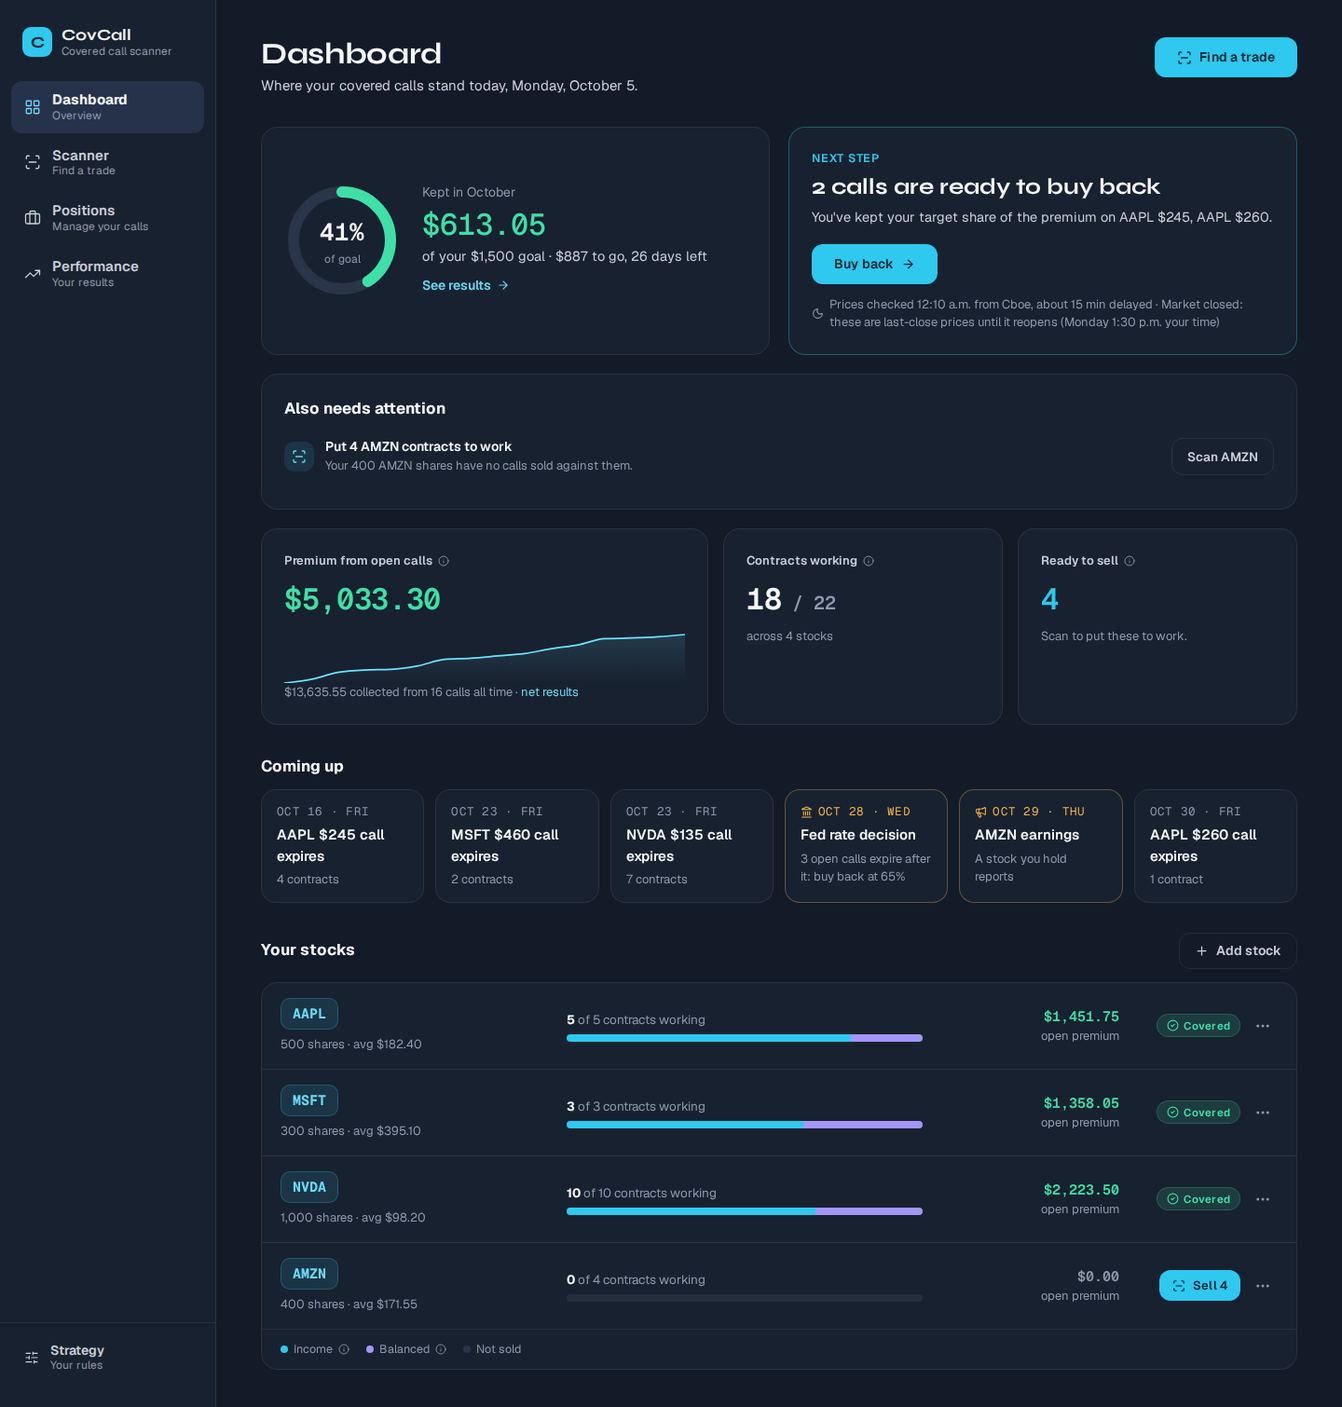
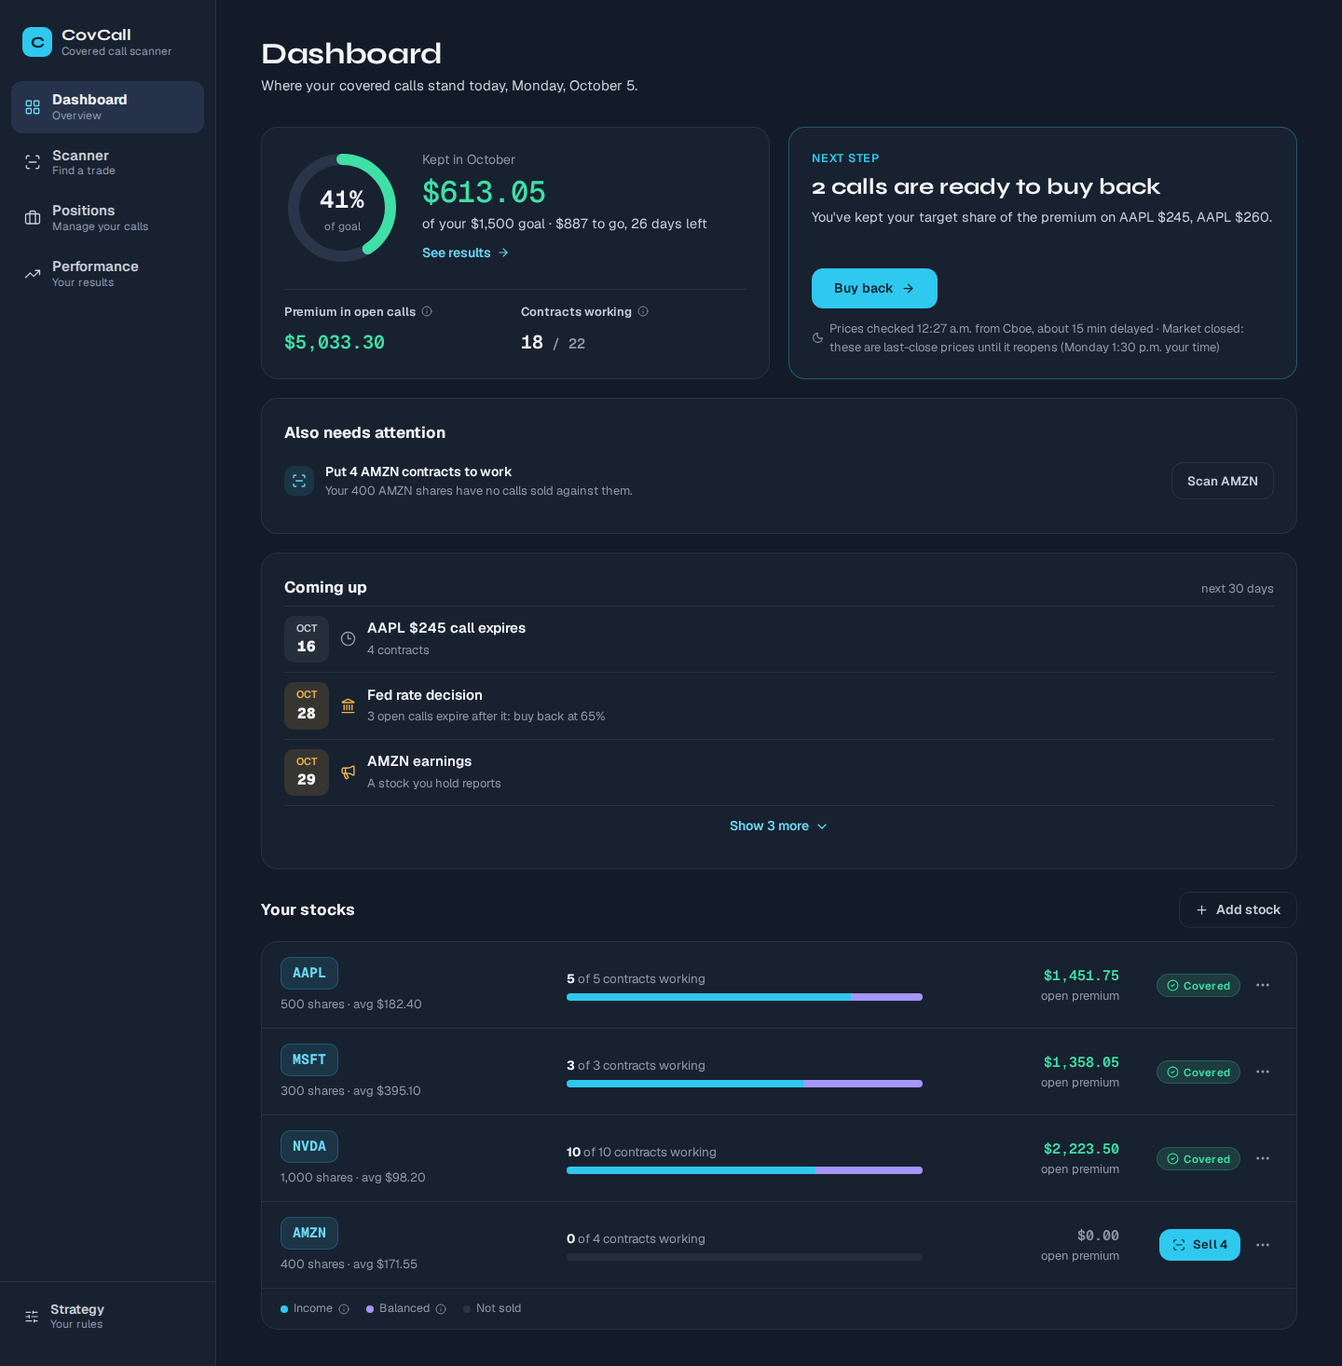
Simpler Dashboard: numbers in the goal card, Coming up as a short list
- Premium in open calls and contracts working move into the goal card; the
  separate number tiles and the all-time chart are gone (Performance has
  the monthly chart).
- Coming up is a list: three events shown, earnings and Fed decisions
  first (expiries are also on Positions), in date order, with "Show N more"
  for the rest of the month.
- No goal and nothing sold yet: the Next step comes first. The header's
  "Find a trade" is gone; the Next step carries the main action.
- Stock rows keep the ⋯ menu (View positions, Scan for a call, Edit shares
  or cost), the Covered badge and Sell N.
- Loading placeholder matches the new layout. README and screenshots
  updated.

Claude-Session: https://claude.ai/code/session_01BL7NnaB4jY3csjvbLdMFq2

diff --git a/web/src/pages/Dashboard.jsx b/web/src/pages/Dashboard.jsx
@@ -4,8 +4,7 @@ import { Link, useNavigate, useSearchParams } from 'react-router-dom'
 import { getPortfolio, getAllPositions, getAssignmentReview, getManagement, getPerformance, getStrategy, getUpcoming } from '../api/client'
 import { useTicker } from '../context/TickerContext'
 import { useToast } from '../context/ToastContext'
-import { ScanLine, ArrowRight, ArrowUpRight, CheckCircle2, Pencil, Plus, AlertTriangle, Layers, CalendarClock, BadgeDollarSign, Landmark, Megaphone } from 'lucide-react'
-import { AreaChart, Area, ResponsiveContainer, XAxis, YAxis, Tooltip } from 'recharts'
+import { ScanLine, ArrowRight, ArrowUpRight, CheckCircle2, Pencil, Plus, AlertTriangle, Layers, CalendarClock, BadgeDollarSign, Landmark, Megaphone, Clock3, ChevronDown } from 'lucide-react'
 import PageHeader from '../components/PageHeader'
 import InfoTip from '../components/InfoTip'
 import ActionMenu from '../components/ActionMenu'
@@ -55,16 +54,33 @@ function Attention({ icon: Icon, tone, children, action }) {
   )
 }
 
+// Premium in open calls and contracts working, under the goal
+function OpenNumbers({ openPremium, working, totalContracts }) {
+  return (
+    <div className="goal-numbers">
+      <div>
+        <div className="stat-label">Premium in open calls <InfoTip text="Premium from calls that are still open, after the fees you paid to sell them. Same as &quot;Still open&quot; on the Performance page." size={12} /></div>
+        <div className="mono goal-number" style={{ color: 'var(--green)' }}>{money(openPremium)}</div>
+      </div>
+      <div>
+        <div className="stat-label">Contracts working <InfoTip text="Contracts with an open call sold against them. Each contract covers 100 shares." size={12} /></div>
+        <div className="mono goal-number">{working}<span className="muted" style={{ fontSize: 15 }}> / {totalContracts}</span></div>
+      </div>
+    </div>
+  )
+}
+
 // Monthly goal as a ring: how much you've kept this month, and how much is left to go
-function GoalCard({ goal }) {
+function GoalCard({ goal, numbers }) {
   if (!goal) {
     return (
       <section className="card goal-card" aria-label="Monthly goal">
         <div className="goal-text">
           <div className="section-title">Set a monthly goal</div>
-          <div className="hint" style={{ fontSize: 14 }}>A goal shows your progress here and paces the Scanner's income picks.</div>
+          <div className="hint" style={{ fontSize: 14 }}>Optional. Shows your progress here and paces the Scanner's picks.</div>
           <Link to="/strategy" className="link-btn">Set a goal <ArrowRight size={14} /></Link>
         </div>
+        {numbers}
       </section>
     )
   }
@@ -94,6 +110,7 @@ function GoalCard({ goal }) {
         </div>
         <Link to="/performance" className="link-btn">See results <ArrowRight size={14} /></Link>
       </div>
+      {numbers}
     </section>
   )
 }
@@ -124,37 +141,57 @@ function NextStep({ item, footer }) {
   )
 }
 
-// "Coming up": expiries, Fed decisions and earnings over the next 30 days
-const shortDay = iso => {
+// "Coming up": expiries, Fed decisions and earnings over the next 30 days.
+// Three are shown, earnings and Fed decisions first (expiries are also on
+// Positions), in date order; the rest open with "Show more".
+const SHOWN = 3
+const dayParts = iso => {
   const [y, m, d] = iso.split('-').map(Number)
   const dt = new Date(y, m - 1, d)
-  return `${dt.toLocaleDateString('en-US', { month: 'short', day: 'numeric' })} · ${dt.toLocaleDateString('en-US', { weekday: 'short' })}`.toUpperCase()
+  return { month: dt.toLocaleDateString('en-US', { month: 'short' }).toUpperCase(), day: d, weekday: dt.toLocaleDateString('en-US', { weekday: 'long' }) }
 }
 
-function ComingUp({ items, moreExpiries, note, warning }) {
+function ComingUp({ items, note, warning }) {
+  const [open, setOpen] = useState(false)
   if (!items.length && !warning) return null
+  const picked = new Set([...items.filter(i => i.event), ...items.filter(i => !i.event)].slice(0, SHOWN).map(i => i.key))
+  const shown = open ? items : items.filter(i => picked.has(i.key))
+  const more = items.length - SHOWN
   return (
-    <section aria-label="Coming up" style={{ marginBottom: 32 }}>
-      <div className="section-title" style={{ marginBottom: 12 }}>Coming up</div>
+    <section className="card coming-up" aria-label="Coming up" style={{ marginBottom: 24 }}>
+      <div style={{ display: 'flex', justifyContent: 'space-between', alignItems: 'baseline', gap: 12, marginBottom: 6 }}>
+        <div className="section-title" style={{ margin: 0 }}>Coming up</div>
+        <span className="hint">next 30 days</span>
+      </div>
       {warning && (
-        <div role="status" style={{ display: 'flex', gap: 8, alignItems: 'flex-start', color: 'var(--amber)', fontSize: 13.5, marginBottom: items.length ? 12 : 0 }}>
+        <div role="status" style={{ display: 'flex', gap: 8, alignItems: 'flex-start', color: 'var(--amber)', fontSize: 13.5, margin: '6px 0 8px' }}>
           <AlertTriangle size={15} strokeWidth={2} aria-hidden="true" style={{ flexShrink: 0, marginTop: 2 }} />
           <span>{warning}</span>
         </div>
       )}
-      {items.length > 0 && <div className="coming-grid">
-        {items.map(it => (
-          <div key={it.key} className={`coming-card${it.event ? ' event' : ''}`}>
-            <div className="coming-date mono">{it.event && <it.icon size={13} strokeWidth={2} aria-hidden="true" />}{shortDay(it.date)}</div>
-            <div style={{ fontWeight: 600, fontSize: 15 }}>{it.title}</div>
-            <div className="hint">{it.sub}</div>
-          </div>
-        ))}
-      </div>}
-      {moreExpiries > 0 && (
-        <div className="hint" style={{ marginTop: 8 }}>
-          {moreExpiries} more {moreExpiries === 1 ? 'expiry' : 'expiries'} in the next 30 days on <Link to="/positions">Positions</Link>.
-        </div>
+      {items.length > 0 && (
+        <ul className="coming-list" id="coming-up-list">
+          {shown.map(it => {
+            const d = dayParts(it.date)
+            const Icon = it.icon
+            return (
+              <li key={it.key} className={`coming-row${it.event ? ' event' : ''}`}>
+                <span className="coming-chip" aria-label={`${d.weekday}, ${d.month} ${d.day}`}><span>{d.month}</span><strong className="mono">{d.day}</strong></span>
+                <Icon size={17} strokeWidth={2} aria-hidden="true" className="coming-icon" />
+                <span style={{ minWidth: 0 }}>
+                  <span style={{ display: 'block', fontWeight: 600, fontSize: 15 }}>{it.title}</span>
+                  <span className="hint">{it.sub}</span>
+                </span>
+              </li>
+            )
+          })}
+        </ul>
+      )}
+      {more > 0 && (
+        <button type="button" className="coming-more" onClick={() => setOpen(o => !o)} aria-expanded={open} aria-controls="coming-up-list">
+          {open ? 'Show less' : `Show ${more} more`}
+          <ChevronDown size={16} strokeWidth={2} style={{ transform: open ? 'rotate(180deg)' : 'none', transition: 'transform 0.2s' }} />
+        </button>
       )}
       {note && <div className="hint" style={{ marginTop: 8 }}>{note}</div>}
     </section>
@@ -208,7 +245,6 @@ export default function Dashboard() {
   const [editing,      setEditing]      = useState(() => (params.get('add') === '1' ? 'new' : null))
   const [portfolio,    setPortfolio]    = useState([])
   const [positions,    setPositions]    = useState([])
-  const [allPositions, setAllPositions] = useState([])
   const [loading,      setLoading]      = useState(true)
   const [loadFailed,   setLoadFailed]   = useState(false)
   const [reloadKey,    setReloadKey]    = useState(0)
@@ -227,7 +263,6 @@ export default function Dashboard() {
         if (cancelled) return
         setPortfolio(portRes.data)
         setPositions(posRes.data.filter(p => p.status === 'OPEN'))
-        setAllPositions(posRes.data)
         setLoadFailed(false)
         applyPortfolio(portRes.data)
       })
@@ -257,17 +292,6 @@ export default function Dashboard() {
   const openPremium    = positions.reduce((s, p) => s + p.premium_total - (p.open_fees || 0), 0)
   const totalContracts = portfolio.reduce((s, t) => s + t.total_contracts, 0)
   const working        = portfolio.reduce((s, t) => s + t.open_total, 0)
-  const available      = portfolio.reduce((s, t) => s + t.available, 0)
-
-  // Running total of premium from every call you've sold, oldest first.
-  const chartData = useMemo(() => {
-    const sorted = [...allPositions].sort((a, b) => new Date(a.opened_at) - new Date(b.opened_at))
-    return sorted.reduce((points, p) => {
-      const prev = points.length ? points[points.length - 1].total : 0
-      points.push({ date: p.opened_at, total: Number((prev + p.premium_total - (p.open_fees || 0)).toFixed(2)) })
-      return points
-    }, [])
-  }, [allPositions])
 
   const go = (ticker, path) => { selectTicker(ticker); navigate(path) }
 
@@ -329,7 +353,7 @@ export default function Dashboard() {
       const k = `${p.expiry}|${p.ticker}|${p.strike}`
       byCall.set(k, { ...(byCall.get(k) || { date: p.expiry, ticker: p.ticker, strike: p.strike, contracts: 0 }), contracts: (byCall.get(k)?.contracts || 0) + p.contracts })
     })
-    byCall.forEach((c, k) => out.push({ key: `exp-${k}`, date: c.date, title: `${c.ticker} ${money(c.strike, 0)} call expires`, sub: plural(c.contracts, 'contract') }))
+    byCall.forEach((c, k) => out.push({ key: `exp-${k}`, date: c.date, icon: Clock3, title: `${c.ticker} ${money(c.strike, 0)} call expires`, sub: plural(c.contracts, 'contract') }))
     ;(upcoming?.fed || []).forEach(day => {
       const after = positions.filter(p => p.expiry >= day).length
       out.push({ key: `fed-${day}`, date: day, event: true, icon: Landmark, title: 'Fed rate decision',
@@ -340,12 +364,7 @@ export default function Dashboard() {
       out.push({ key: `earn-${e.ticker}-${e.date}`, date: e.date, event: true, icon: Megaphone, title: `${e.ticker} earnings`,
         sub: after ? `Before ${plural(after, `open ${e.ticker} call`)} ${after === 1 ? 'expires' : 'expire'}` : 'A stock you hold reports' })
     })
-    // Up to 8 cards: earnings and Fed decisions always make it, expiries fill the rest (soonest first)
-    const byDate = (a, b) => a.date.localeCompare(b.date) || a.key.localeCompare(b.key)
-    const events = out.filter(i => i.event)
-    const expiries = out.filter(i => !i.event).sort(byDate)
-    const shown = expiries.slice(0, Math.max(0, 8 - events.length))
-    return { items: [...events, ...shown].sort(byDate), moreExpiries: expiries.length - shown.length }
+    return out.sort((a, b) => a.date.localeCompare(b.date) || a.key.localeCompare(b.key))
   }, [positions, upcoming, eventPct])
   const unknownEarnings = upcoming?.earnings_unknown || []
   const earningsWarning = unknownEarnings.length
@@ -380,8 +399,6 @@ export default function Dashboard() {
       <PageHeader
         title="Dashboard"
         subtitle={`Where your covered calls stand today, ${new Date().toLocaleDateString('en-CA', { weekday: 'long', month: 'long', day: 'numeric' })}.`}
-        actions={!loading && !loadFailed && portfolio.length > 0 &&
-          <button className="btn-primary" onClick={() => navigate('/scanner')}><ScanLine size={16} strokeWidth={2} /> Find a trade</button>}
       />
 
       {loading ? (
@@ -393,12 +410,17 @@ export default function Dashboard() {
       ) : (
         <>
           <div className="hero-grid">
-            <GoalCard goal={goal} />
-            <NextStep item={nextStep} footer={
-              readyIds === null && positions.length > 0
-                ? <span className="hint" style={{ display: 'inline-flex', alignItems: 'center', gap: 8 }}><span className="spinner" style={{ width: 12, height: 12 }} /> Checking which calls are ready to buy back…</span>
-                : readyIds && positions.length > 0 ? <PriceStamp meta={priceMeta} /> : null
-            } />
+            {(() => {
+              const goalCard = <GoalCard key="goal" goal={goal}
+                numbers={positions.length > 0 && <OpenNumbers openPremium={openPremium} working={working} totalContracts={totalContracts} />} />
+              const next = <NextStep key="next" item={nextStep} footer={
+                readyIds === null && positions.length > 0
+                  ? <span className="hint" style={{ display: 'inline-flex', alignItems: 'center', gap: 8 }}><span className="spinner" style={{ width: 12, height: 12 }} /> Checking which calls are ready to buy back…</span>
+                  : readyIds && positions.length > 0 ? <PriceStamp meta={priceMeta} /> : null
+              } />
+              // Just starting out (no goal, nothing sold): what to do comes first
+              return goal || positions.length > 0 ? [goalCard, next] : [next, goalCard]
+            })()}
           </div>
 
           {rest.length > 0 && (
@@ -414,57 +436,7 @@ export default function Dashboard() {
             </div>
           )}
 
-          {/* Three numbers that matter */}
-          <div className="grid-stats" style={{ marginBottom: 32 }}>
-            <div className="card" style={{ display: 'flex', flexDirection: 'column' }}>
-              <div className="stat-label">Premium from open calls <InfoTip text="Premium from calls that are still open, after the fees you paid to sell them. Same as &quot;Still open&quot; on the Performance page." size={12} /></div>
-              <div className="stat-num" style={{ fontSize: 32, color: 'var(--green)' }}>{money(openPremium)}</div>
-              {chartData.length >= 2 ? (
-                <>
-                  <div style={{ height: 56, marginTop: 10, marginLeft: -8, marginRight: -8 }}>
-                    <ResponsiveContainer width="100%" height="100%" initialDimension={{ width: 300, height: 56 }}>
-                      <AreaChart data={chartData} margin={{ top: 4, right: 8, bottom: 0, left: 8 }}>
-                        <defs>
-                          <linearGradient id="premiumFill" x1="0" y1="0" x2="0" y2="1">
-                            <stop offset="0%" stopColor="#6ae4ff" stopOpacity={0.22} />
-                            <stop offset="100%" stopColor="#6ae4ff" stopOpacity={0} />
-                          </linearGradient>
-                        </defs>
-                        <XAxis dataKey="date" hide />
-                        <YAxis hide domain={['dataMin', 'dataMax']} />
-                        <Tooltip
-                          contentStyle={{ background: '#202a3e', border: '1px solid rgba(255,255,255,0.1)', borderRadius: 10, fontSize: 12 }}
-                          labelStyle={{ color: '#cdd0d6' }}
-                          itemStyle={{ color: '#ffffff' }}
-                          labelFormatter={fmtDate}
-                          formatter={(v) => [money(v), 'Total collected']}
-                        />
-                        <Area type="monotone" dataKey="total" stroke="#6ae4ff" strokeWidth={1.75} fill="url(#premiumFill)" />
-                      </AreaChart>
-                    </ResponsiveContainer>
-                  </div>
-                  <div className="hint">
-                    {money(chartData[chartData.length - 1].total)} collected from {plural(chartData.length, 'call')} all time ·{' '}
-                    <Link to="/performance" style={{ color: 'var(--accent-light)' }}>net results</Link>
-                  </div>
-                </>
-              ) : (
-                <div className="hint" style={{ marginTop: 'auto', paddingTop: 12 }}>A trend line appears once you've sold 2 or more calls.</div>
-              )}
-            </div>
-            <div className="card">
-              <div className="stat-label">Contracts working <InfoTip text="Contracts with an open call sold against them. Each contract covers 100 shares." size={12} /></div>
-              <div className="stat-num" style={{ fontSize: 32 }}>{working}<span className="muted" style={{ fontSize: 20 }}> / {totalContracts}</span></div>
-              <div className="hint" style={{ marginTop: 6 }}>across {plural(portfolio.length, 'stock')}</div>
-            </div>
-            <div className="card">
-              <div className="stat-label">Ready to sell <InfoTip text={TERMS.available} size={12} /></div>
-              <div className="stat-num" style={{ fontSize: 32, color: available > 0 ? 'var(--accent)' : 'var(--text)' }}>{available}</div>
-              <div className="hint" style={{ marginTop: 6 }}>{available > 0 ? 'Scan to put these to work.' : 'Everything is covered.'}</div>
-            </div>
-          </div>
-
-          <ComingUp items={comingUp.items} moreExpiries={comingUp.moreExpiries} note={fedNote} warning={earningsWarning} />
+          <ComingUp items={comingUp} note={fedNote} warning={earningsWarning} />
 
           <div style={{ display: 'flex', justifyContent: 'space-between', alignItems: 'center', marginBottom: 14 }}>
             <div className="section-title" style={{ margin: 0 }}>Your stocks</div>

diff --git a/web/src/index.css b/web/src/index.css
@@ -803,11 +803,6 @@ body { font-size: 15px; line-height: 1.5; }
 .eyebrow { font-size: 12.5px; font-weight: 600; letter-spacing: 0.06em; text-transform: uppercase; color: var(--accent); margin-bottom: 8px; }
 .next-title { font-family: var(--font-display); font-size: 24px; font-weight: 700; line-height: 1.2; margin-bottom: 6px; }
 .attention-btn { padding: 0 16px; min-height: 40px; font-size: 13.5px; flex-shrink: 0; }
-.coming-grid { display: grid; grid-template-columns: repeat(auto-fill, minmax(150px, 1fr)); gap: 12px; }
-.coming-card { background: var(--bg-card); border: 1px solid var(--border); border-radius: 16px; padding: 14px 16px; display: flex; flex-direction: column; gap: 4px; }
-.coming-card.event { border-color: rgba(242, 180, 74, 0.35); }
-.coming-date { display: inline-flex; align-items: center; gap: 6px; font-size: 12.5px; color: var(--text-muted); letter-spacing: 0.02em; }
-.coming-card.event .coming-date { color: var(--amber); }
 
 /* --- Scanner: one call in the recommended trade ---------------------------- */
 .rec-leg { display: flex; flex-direction: column; gap: 6px; background: var(--bg-card-2); border-radius: 14px; padding: 16px 18px; }
@@ -830,3 +825,18 @@ body { font-size: 15px; line-height: 1.5; }
 .compact-foot { display: flex; justify-content: space-between; align-items: center; gap: 6px 12px; flex-wrap: wrap; font-size: 13.5px; }
 .badge-neutral { background: rgba(255,255,255,0.06); color: var(--text-dim); border: 1px solid var(--border); }
 .group-title { margin: 0; font-size: 15px; font-weight: 700; }
+
+/* Dashboard: open-call numbers under the goal */
+.goal-numbers { display: grid; grid-template-columns: 1fr 1fr; gap: 12px; width: 100%; padding-top: 14px; border-top: 1px solid var(--border); }
+.goal-number { font-size: 20px; font-weight: 600; margin-top: 2px; }
+
+/* Dashboard: Coming up as a list */
+.coming-list { list-style: none; margin: 0; padding: 0; }
+.coming-row { display: flex; align-items: center; gap: 12px; padding: 10px 0; border-top: 1px solid var(--border); }
+.coming-chip { width: 48px; flex-shrink: 0; display: flex; flex-direction: column; align-items: center; padding: 5px 0; border-radius: 10px; background: rgba(255,255,255,0.06); font-size: 11px; font-weight: 600; color: var(--text-dim); }
+.coming-chip strong { font-size: 16px; color: var(--text); }
+.coming-icon { flex-shrink: 0; color: var(--text-muted); }
+.coming-row.event .coming-chip { background: var(--amber-dim); color: var(--amber); }
+.coming-row.event .coming-icon { color: var(--amber); }
+.coming-more { width: 100%; min-height: 44px; display: flex; align-items: center; justify-content: center; gap: 6px; border: 0; border-top: 1px solid var(--border); background: transparent; color: var(--accent-light); font: inherit; font-weight: 600; font-size: 14px; cursor: pointer; }
+.coming-more:focus-visible { outline: 2px solid var(--accent-light); outline-offset: 2px; }

diff --git a/web/src/components/Skeleton.jsx b/web/src/components/Skeleton.jsx
@@ -28,15 +28,23 @@ function StatCard({ big = false }) {
 export function DashboardSkeleton() {
   return (
     <Loading>
-      <div className="card" style={{ marginBottom: 20 }}>
-        <Bone w={140} h={16} />
-        {[0, 1].map(i => (
-          <div key={i} style={{ display: 'flex', alignItems: 'center', gap: 12, marginTop: 18 }}>
-            <Bone w={32} h={32} r={10} /><Bone w="45%" /><span style={{ flex: 1 }} /><Bone w={70} />
+      <div className="hero-grid">
+        <StatCard big />
+        <div className="card">
+          <Bone w={80} h={12} />
+          <Bone w="70%" h={24} style={{ marginTop: 14 }} />
+          <Bone w="90%" style={{ marginTop: 12 }} />
+          <Bone w={160} h={42} r={12} style={{ marginTop: 18 }} />
+        </div>
+      </div>
+      <div className="card" style={{ marginBottom: 24 }}>
+        <Bone w={110} h={16} />
+        {[0, 1, 2].map(i => (
+          <div key={i} style={{ display: 'flex', alignItems: 'center', gap: 12, marginTop: 16 }}>
+            <Bone w={48} h={44} r={10} /><Bone w="50%" /><span style={{ flex: 1 }} />
           </div>
         ))}
       </div>
-      <div className="grid-stats" style={{ marginBottom: 32 }}><StatCard big /><StatCard /><StatCard /></div>
       <Bone w={110} h={16} style={{ marginBottom: 14 }} />
       <div className="card" style={{ padding: 0 }}>
         {[0, 1, 2].map(i => (

diff --git a/README.md b/README.md
@@ -42,7 +42,7 @@ Covered Call Scanner automates the process of finding, evaluating, and tracking 
 
 *Demo portfolio with simulated market data.*
 
-**Dashboard** — your monthly goal as a ring next to the one thing to do next, anything else that needs you, a "Coming up" strip (expiries, Fed decisions, earnings for your stocks), then one row per stock.
+**Dashboard** — your monthly goal as a ring (with premium in open calls and contracts working) next to the one thing to do next, anything else that needs you, and "Coming up": the next three events, earnings and Fed decisions first, with the rest of the month (expiries too) behind "Show more". Then one row per stock, with Edit shares or cost in its ⋯ menu.
 
 ![Dashboard](docs/screenshots/dashboard.png)
 
